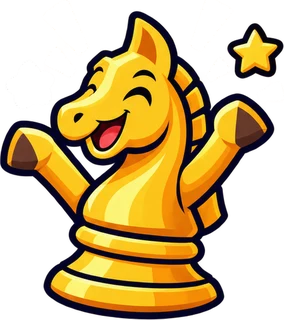
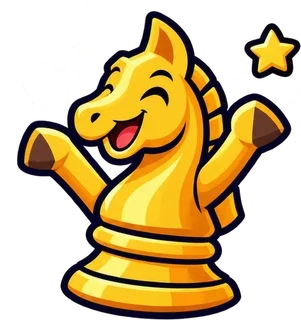
Конь не разворачивается в прыжке и стоит по центру клетки
Прыжок и задумчивость в наборе смотрели в другую сторону — отзеркалены.
Каждый спрайт дополнен прозрачным полем так, что центр подставки совпадает
с центром картинки: при смене позы конь больше не съезжает. На доске
конь уменьшен до высоты клетки и стоит внутри неё, а не на кромке.

diff --git a/src/components/BoardTable.vue b/src/components/BoardTable.vue
@@ -518,12 +518,13 @@ function calculateBoardWidth() {
 			}
 		}
 
-		/* Маскот стоит на клетке, голова чуть выше её края */
+		/* Маскот стоит внутри клетки: подставка по центру (спрайты выровнены
+		   по ней при нарезке), низ — чуть выше нижней кромки */
 		&__piece {
 			position: absolute;
-			height: 112%;
+			height: 98%;
 			left: 50%;
-			bottom: 3%;
+			bottom: 5%;
 			transform: translateX(-50%);
 			display: block;
 			user-select: none;
